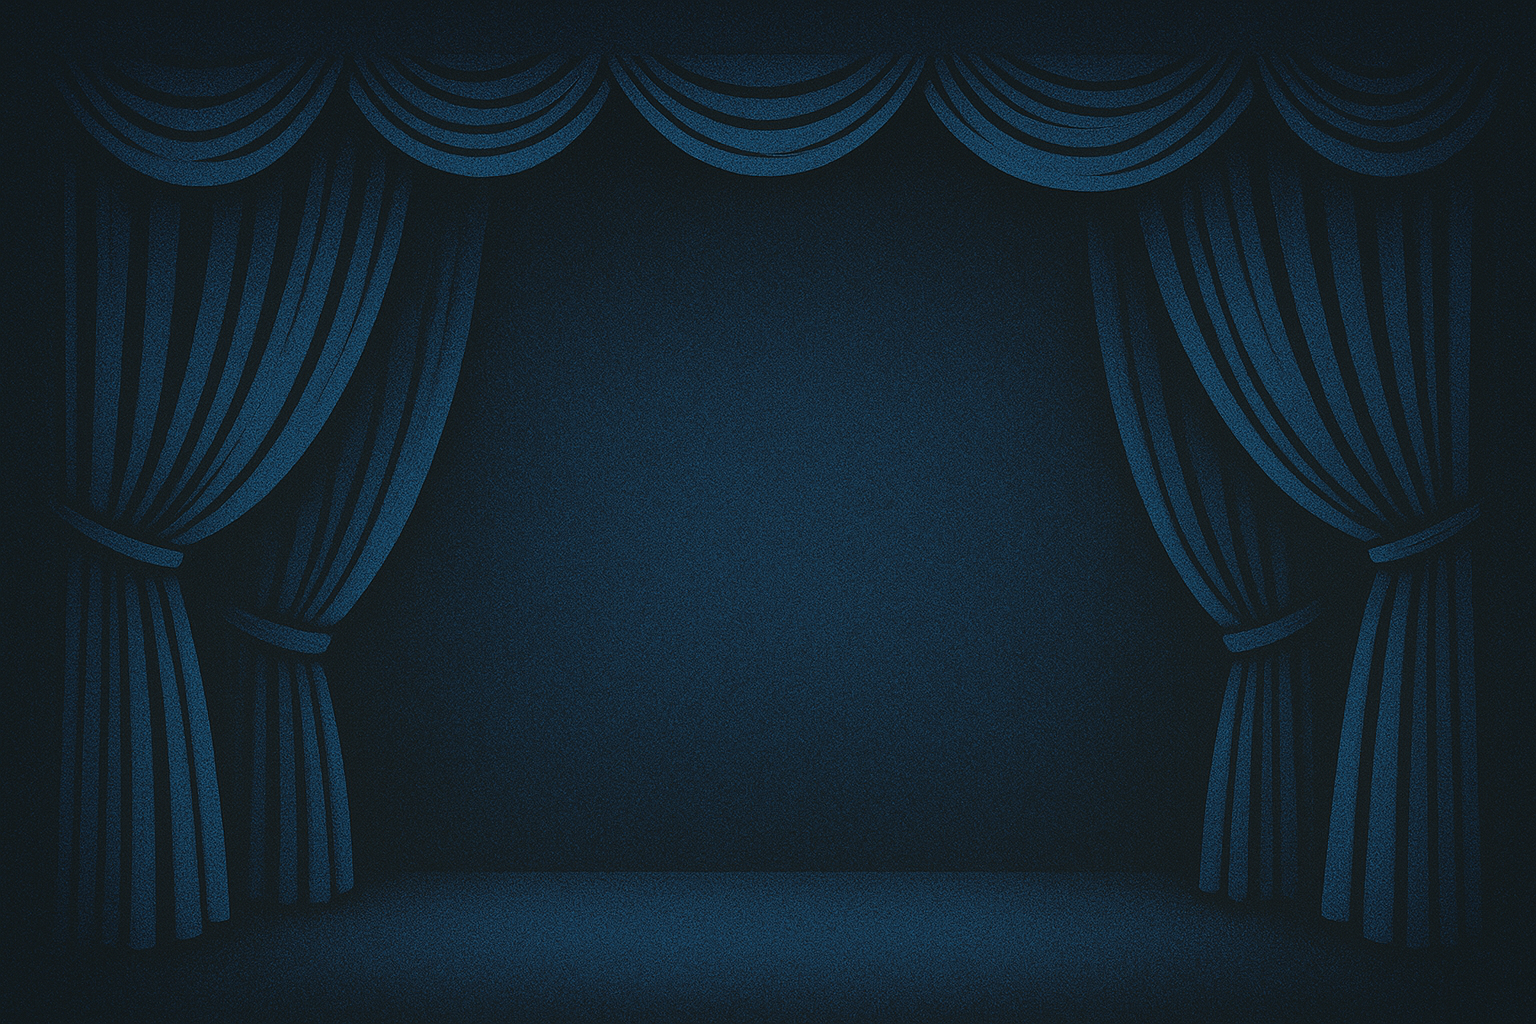
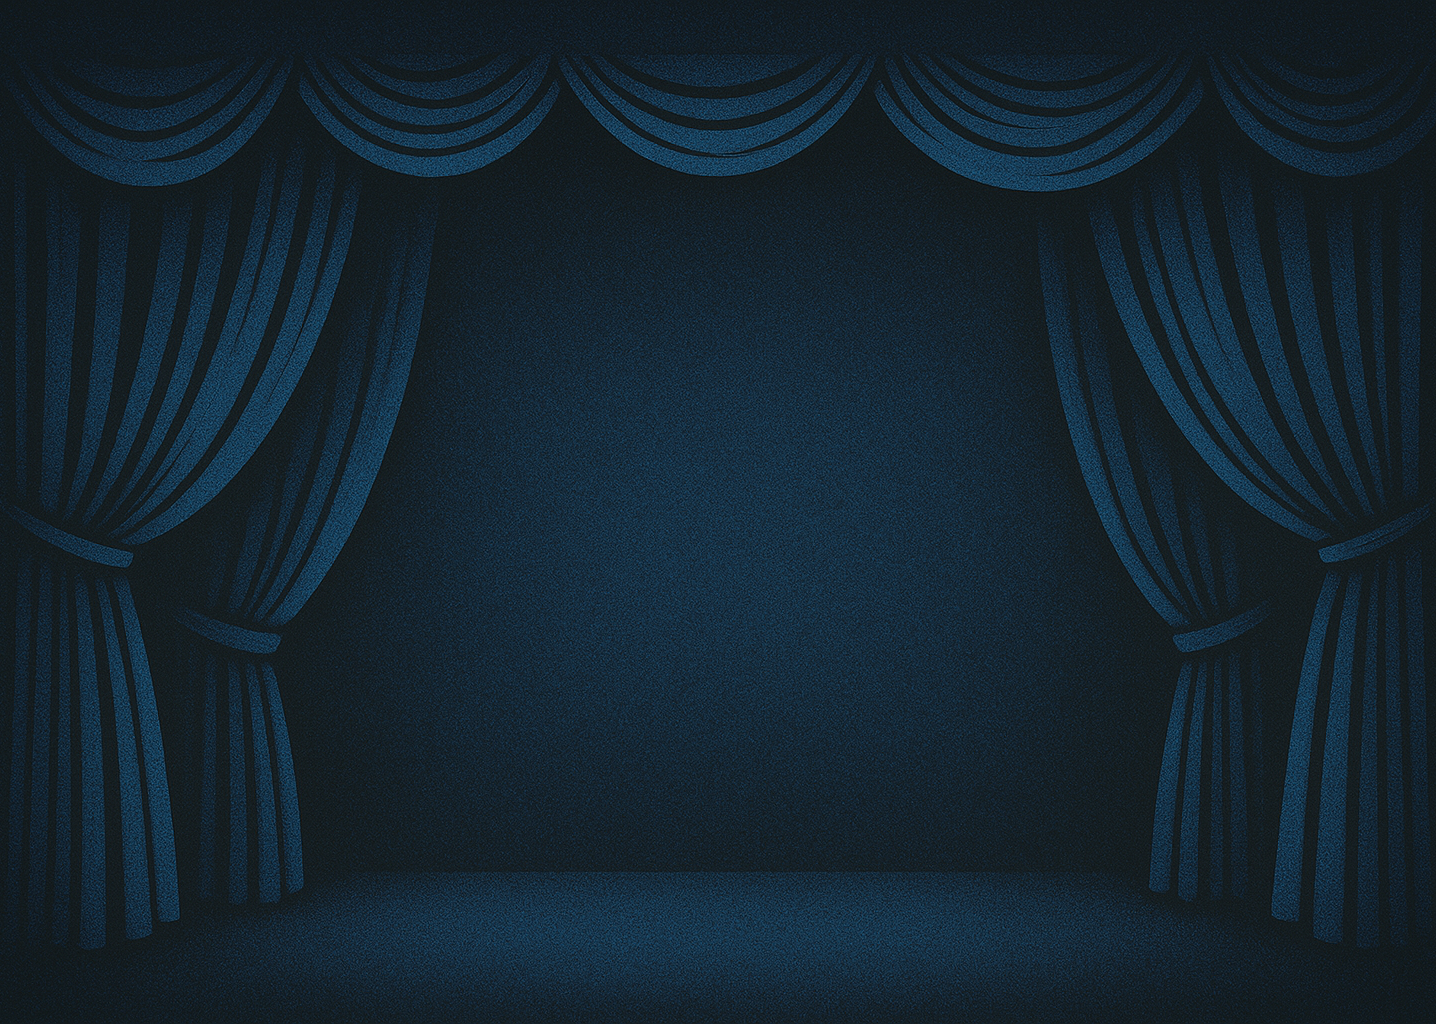
background and new colors
New style chmages with colors and also added a background

diff --git a/src/Pages/BookingPage/BookingPageStyle.css b/src/Pages/BookingPage/BookingPageStyle.css
@@ -1,12 +1,12 @@
 .container_box {
   border: none;
   padding: 1px;
-  border-radius: 5px;
-  background: #24252C;
+  border-radius: 10px;
+  background: #0417209f;
   box-shadow: 0px 4px 4px 0px rgba(0, 0, 0, 0.253);
   background-clip: padding-box;
-  -webkit-backdrop-filter-: blur(50px);
-
+  backdrop-filter: blur(3px);
+  -webkit-backdrop-filter-: blur(5px);
 }
 
 .container_content {
@@ -43,7 +43,7 @@
 
 .glass_effect {
   border-radius: 8px;
-  background: #003cff2e;
+  background: #18203a3b;
   -webkit-backdrop-filter: blur(5px);
   backdrop-filter: blur(5px);
 }

diff --git a/src/Components/footer/footer.tsx b/src/Components/footer/footer.tsx
@@ -1,6 +1,6 @@
 export default function Footer() {
     return (
-        <footer className="h-84 w-full flex flex-col justify-center items-center text-center mt-30 bg-gradient-to-t from-[#243365] to-[#292929] text-white m-0" >
+        <footer className="h-84 w-full flex flex-col justify-center items-center text-center mt-30 bg-gradient-to-t from-[#101c2b] to-[hsla(200,100%,50%,0)] text-white m-0" >
             <section className="md:w-1/3 h-full flex justify-center items-center mt-2">
                 <h1 className="text-2xl">Filmvisarna</h1>
             </section>

diff --git a/src/index.css b/src/index.css
@@ -15,14 +15,16 @@
   align-items: center;
   text-align: center;
   font-family: "Noto Serif", serif;
-  background-image: url("../public/images/BackgroundBlue.png");
+  background-image: url("../public/images/backgroundBlue.png");
   background-size: cover;
+  background-position: center;
   background-repeat: no-repeat;
   background-attachment: fixed;
   background-color: #292929;
   color: white;
   overflow-x: hidden;
 }
+
 
 .animation-slidein {
   animation: slide-in 1s ease-in-out;

diff --git a/src/Pages/BookingPage/bookingPage.tsx b/src/Pages/BookingPage/bookingPage.tsx
@@ -17,7 +17,7 @@ export default function BookingPage({ isLoggedIn }: { isLoggedIn: boolean }) {
       <SeatsProvider>
       {/*----------Container for booking page----------*/}
       <main
-        className="w-screen min-h-screen flex flex-col justify-center items-center overscroll-y-auto bg-[#292929] pt-10"
+        className="w-screen min-h-screen flex flex-col justify-center items-center overscroll-y-auto pt-10"
       >
         <MovieInformation />
 
